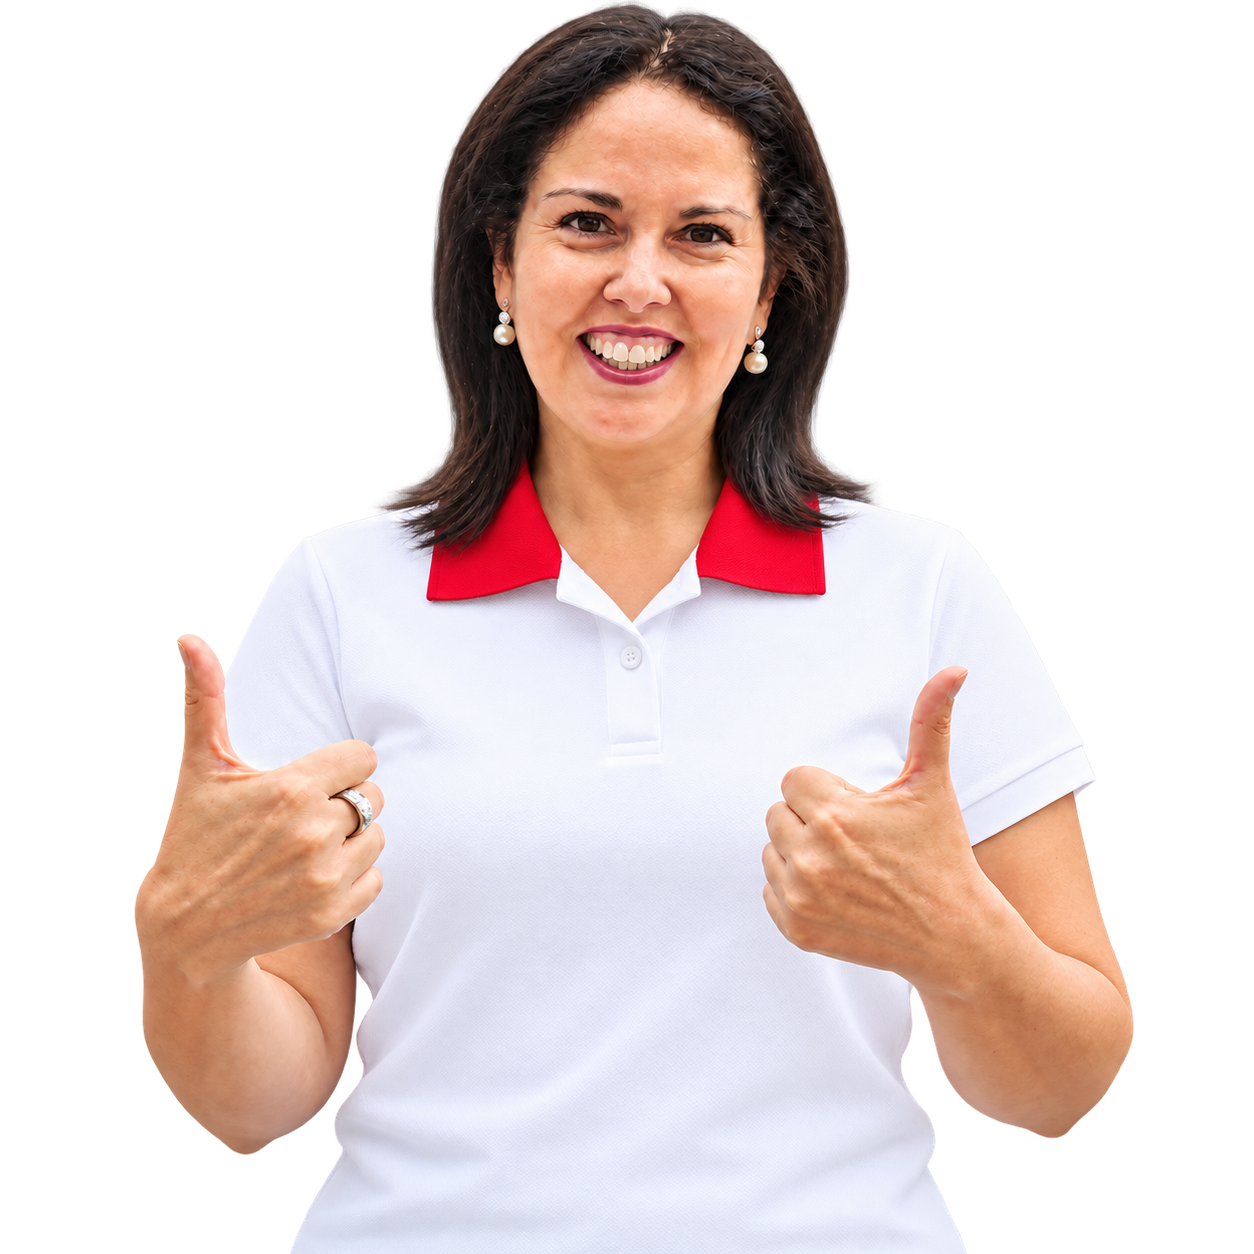
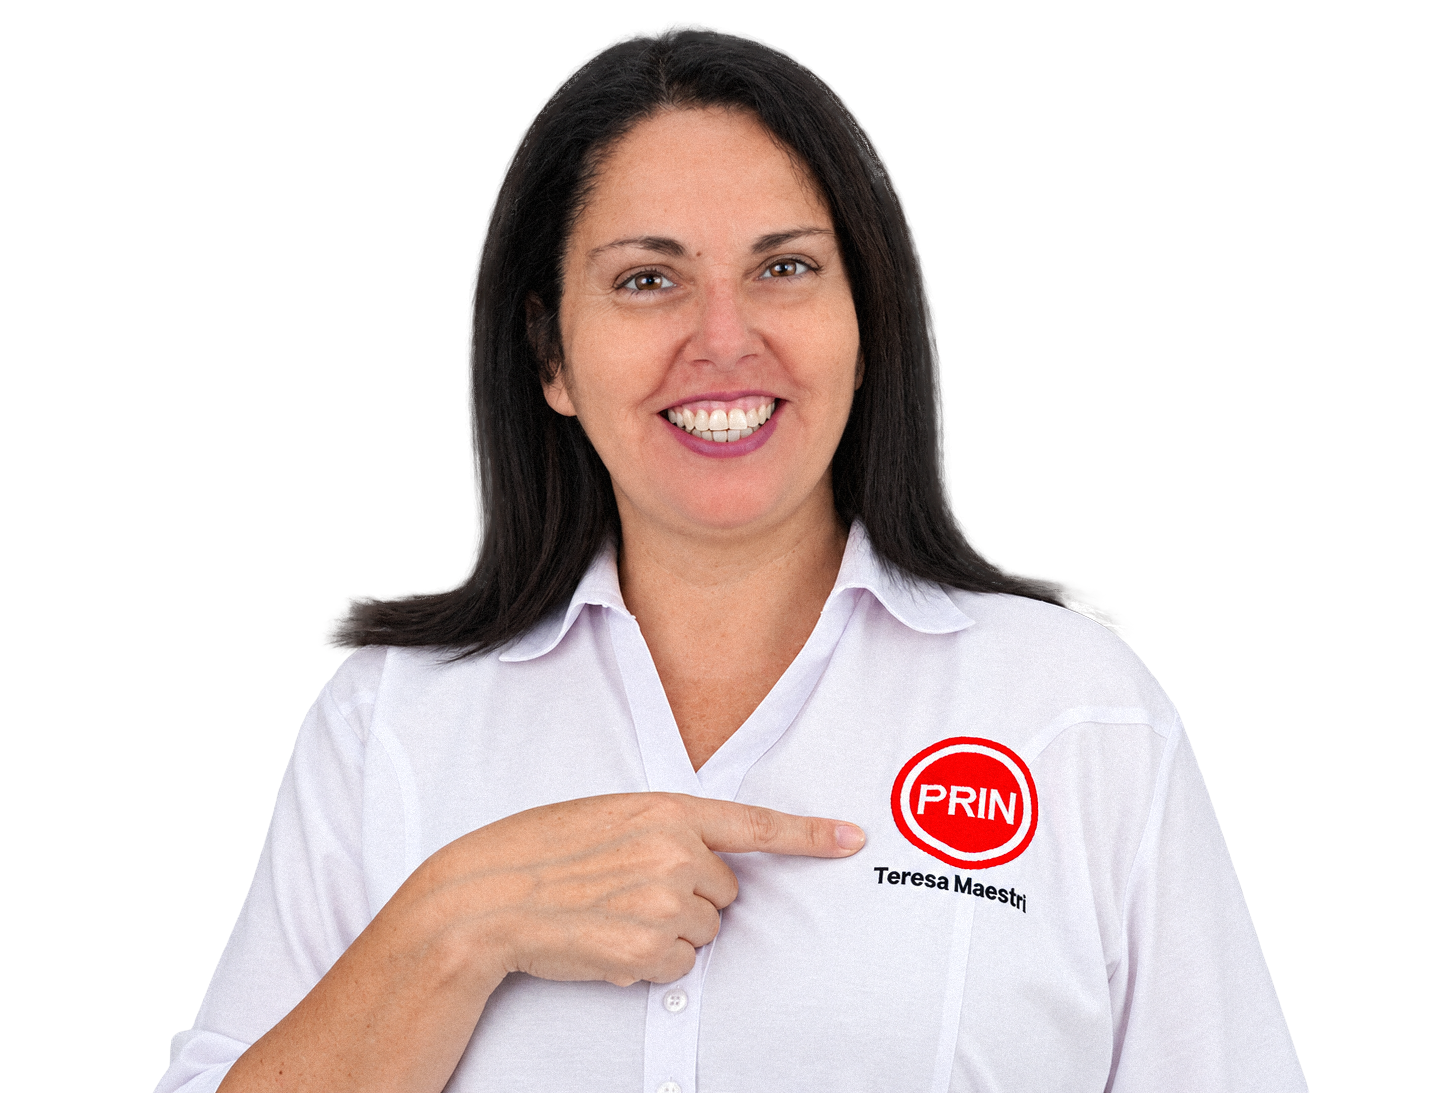
Footer: foto de la candidata actualizada desde el XD

diff --git a/src/components/Footer/Footer.css b/src/components/Footer/Footer.css
@@ -17,10 +17,13 @@
   left: 561.25px;
 }
 
+/* Foto del XD: 875x665 en x 460, apoyada abajo del footer (en el XD termina en el borde inferior) */
 .footer__photo {
   position: absolute;
-  top: 128px;
-  left: 629px;
+  top: 108px;
+  left: 460px;
+  width: 875px;
+  height: 665px;
   object-fit: cover;
 }
 
@@ -231,12 +234,12 @@
     height: 330.5px;
   }
 
-  /* Foto 538x538 en (365, 5188) */
+  /* Foto del XD 1920 (875x665) a la escala del laptop (538/646), apoyada abajo como la anterior */
   .footer__photo {
-    top: 62px;
-    left: 365px;
-    width: 538px;
-    height: 538px;
+    top: 46.2px;
+    left: 224.3px;
+    width: 728.7px;
+    height: 553.8px;
   }
 
   /* El logo y las redes miden igual que en 1920: logo en (78, 5264); la tarjeta empieza en x 845 */
@@ -376,7 +379,7 @@
     left: auto;
     z-index: 1;
     align-self: center;
-    width: min(88vw, 400px);
+    width: min(100%, 460px);
     height: auto;
     margin-top: 32px;
   }
@@ -422,7 +425,7 @@
   }
 
   .footer__photo {
-    width: 380px;
+    width: 500px;
     margin: 40px auto 0;
   }
 

diff --git a/src/components/Footer/Footer.tsx b/src/components/Footer/Footer.tsx
@@ -46,7 +46,7 @@ function Footer() {
   return (
     <footer className="footer" id="sumate">
       <img className="footer__arc" src={arc} width="765.75" height="383" alt="" aria-hidden="true" />
-      <img className="footer__photo" src={techiFooter} width="646" height="646" alt="Techi Maestre" />
+      <img className="footer__photo" src={techiFooter} width="875" height="665" alt="Techi Maestre" />
 
       <div className="footer__info">
         <Brand variant="dark" />
